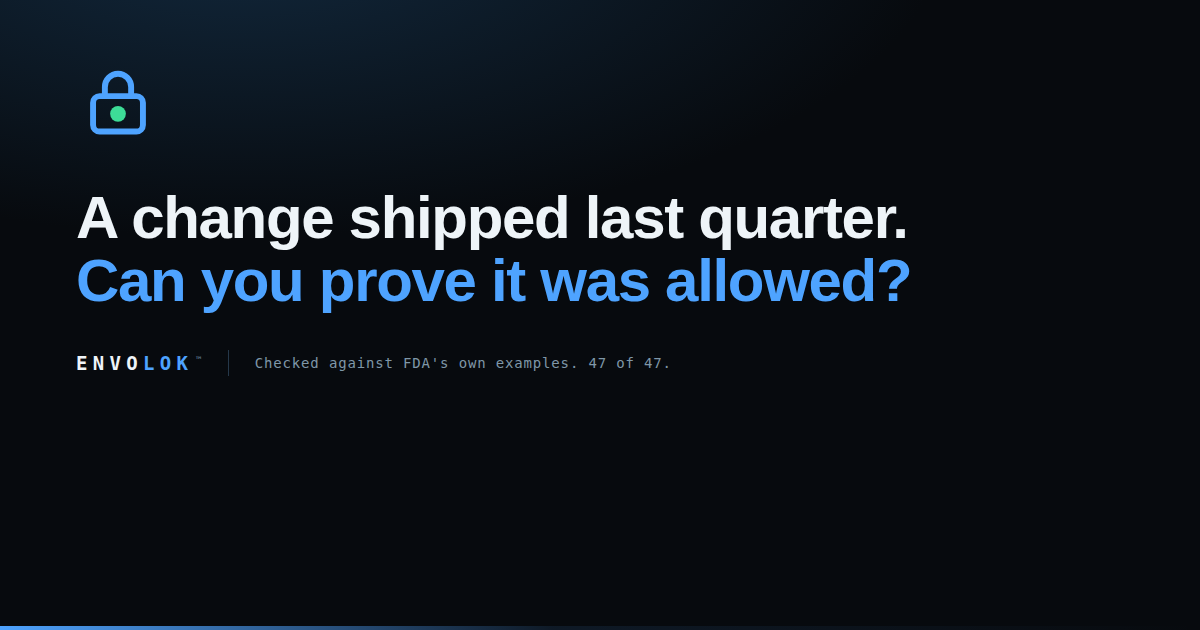
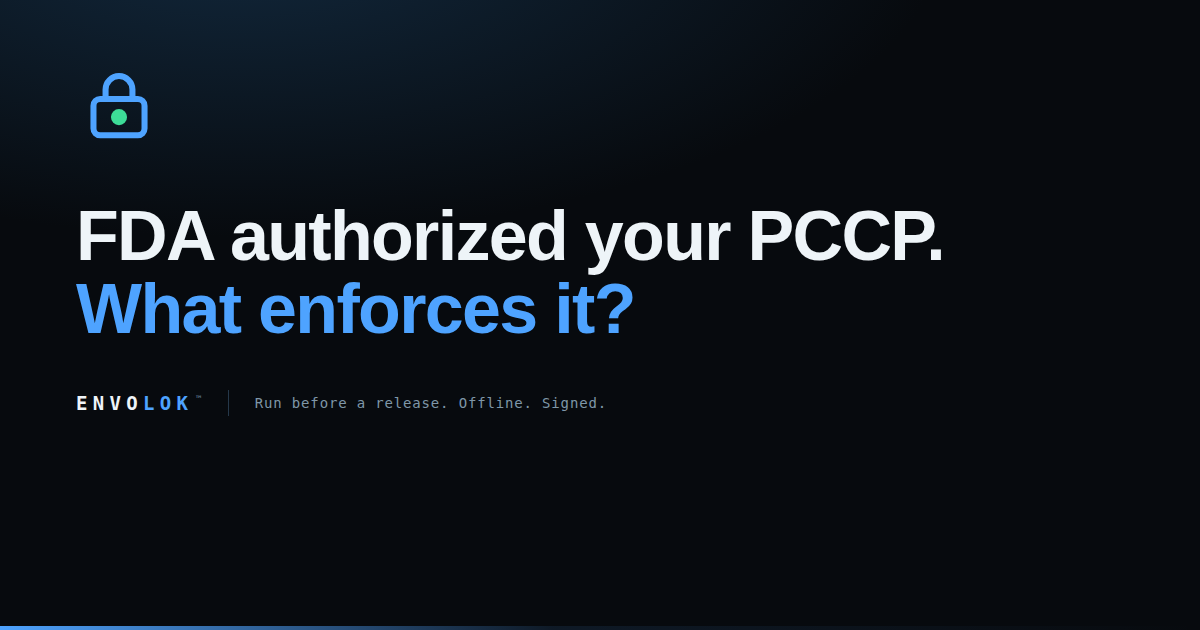
Add files via upload

diff --git a/index.html b/index.html
@@ -3,13 +3,13 @@
 <head>
 <meta charset="utf-8">
 <meta name="viewport" content="width=device-width,initial-scale=1">
-<title>ENVOLOK — prove the change was allowed</title>
+<title>ENVOLOK — FDA authorized your PCCP. What enforces it?</title>
 <link rel="icon" href="favicon-32.png" sizes="32x32">
 <link rel="icon" href="mark.svg" type="image/svg+xml">
 <link rel="apple-touch-icon" href="apple-touch-icon.png">
-<meta name="description" content="A change shipped. Can you prove it was inside your PCCP? ENVOLOK checks a device change against the plan you filed, before it ships, and gives you something to hand an inspector.">
-<meta property="og:title" content="ENVOLOK — prove the change was allowed">
-<meta property="og:description" content="A change shipped. Can you prove it was inside your PCCP? ENVOLOK checks it before it ships and gives you something to hand an inspector.">
+<meta name="description" content="FDA authorized your Predetermined Change Control Plan. ENVOLOK checks each change against it before the change ships, and signs a record you can hand an inspector. Runs offline.">
+<meta property="og:title" content="ENVOLOK — FDA authorized your PCCP. What enforces it?">
+<meta property="og:description" content="Your PCCP is the list of changes FDA cleared you to make without filing again. ENVOLOK checks each change against it before it ships, and signs a record you can hand an inspector.">
 <meta property="og:image" content="og.png">
 <meta property="og:type" content="website">
 <meta name="twitter:card" content="summary_large_image">
@@ -132,17 +132,17 @@ footer{padding:40px 0 66px;color:var(--mut);font:12.5px var(--mono);line-height:
 <div class="hero"><div class="w">
  
  <div>
- <h1>A change shipped last quarter.<br><em>Can you prove it was allowed?</em></h1>
+ <h1>FDA authorized your PCCP.<br><em>What enforces it?</em></h1>
  <p class="said"><strong>ENVOLOK&trade; is a program you run before a release.</strong>
- It reads your authorized Predetermined Change Control Plan, checks the change against it,
+ Your Predetermined Change Control Plan is the list of modifications FDA cleared you to make without filing again. ENVOLOK reads it, checks a change against it,
  and either clears it or stops it &mdash; then signs a record you can hand an inspector.</p>
  <div class="underline">Software you run &middot; offline &middot; nothing leaves your network</div>
  </div>
  <div class="hdgm"><svg class="dgm" viewBox="0 0 372 458" xmlns="http://www.w3.org/2000/svg" role="img"
- aria-label="A boundary labelled YOUR AUTHORIZED PLAN. Inside it, 4 changes the instrument deployed. Outside it, 3 it blocked.">
+ aria-label="A boundary labelled YOUR AUTHORIZED PCCP. Inside it, 4 changes the instrument deployed. Outside it, 3 it blocked.">
 <!-- GENERATED by real_pccp/build_hero_diagram.py from K253281_RESULTS.json. Do not hand-edit: --check will fail. -->
 <rect x="18" y="86" width="336" height="216" rx="16" fill="rgba(78,163,255,.055)" stroke="#4ea3ff" stroke-width="2.5"/>
-<text x="18" y="72" class="dl dhead">YOUR AUTHORIZED PLAN</text>
+<text x="18" y="72" class="dl dhead">YOUR AUTHORIZED PCCP</text>
 <g class="din">
 <circle cx="50" cy="128" r="5"/><text x="66" y="133" class="dl">new insulin biosimilar</text>
 <circle cx="50" cy="172" r="5"/><text x="66" y="177" class="dl">Spanish and Mandarin UI</text>
@@ -172,8 +172,8 @@ footer{padding:40px 0 66px;color:var(--mut);font:12.5px var(--mono);line-height:
 
  <div class="two three">
   <div>
-   <h3>One &middot; your plan becomes a file</h3>
-   <p>Somebody on your team writes the authorized plan out once, as structured
+   <h3>One &middot; your PCCP becomes a file</h3>
+   <p>Somebody on your team writes the authorized PCCP out once, as structured
    text: which modification types are permitted, which metric ranges, which
    validation tests, who has to approve. An afternoon of work, and it does not
    change again unless the plan does.</p>
